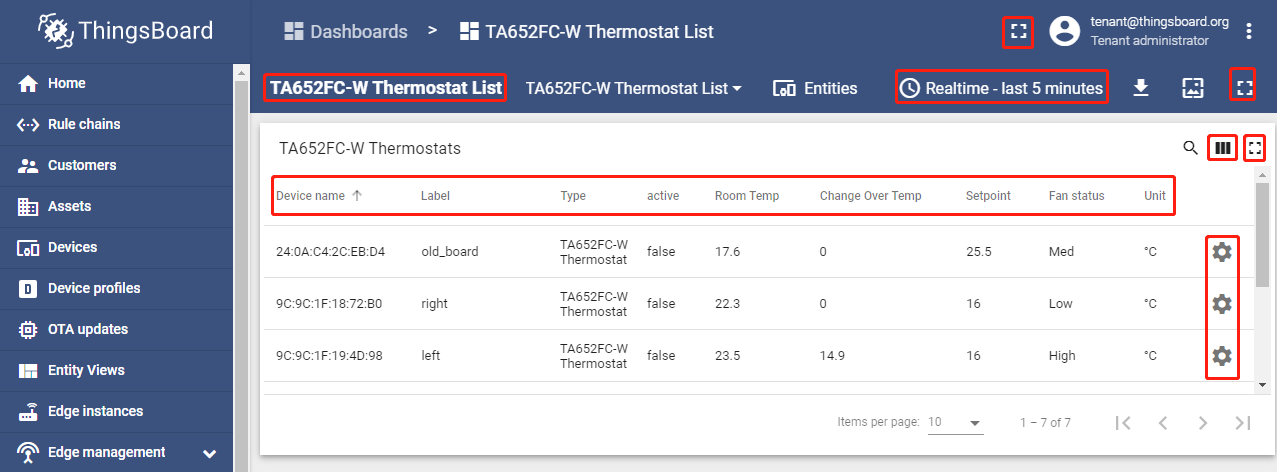
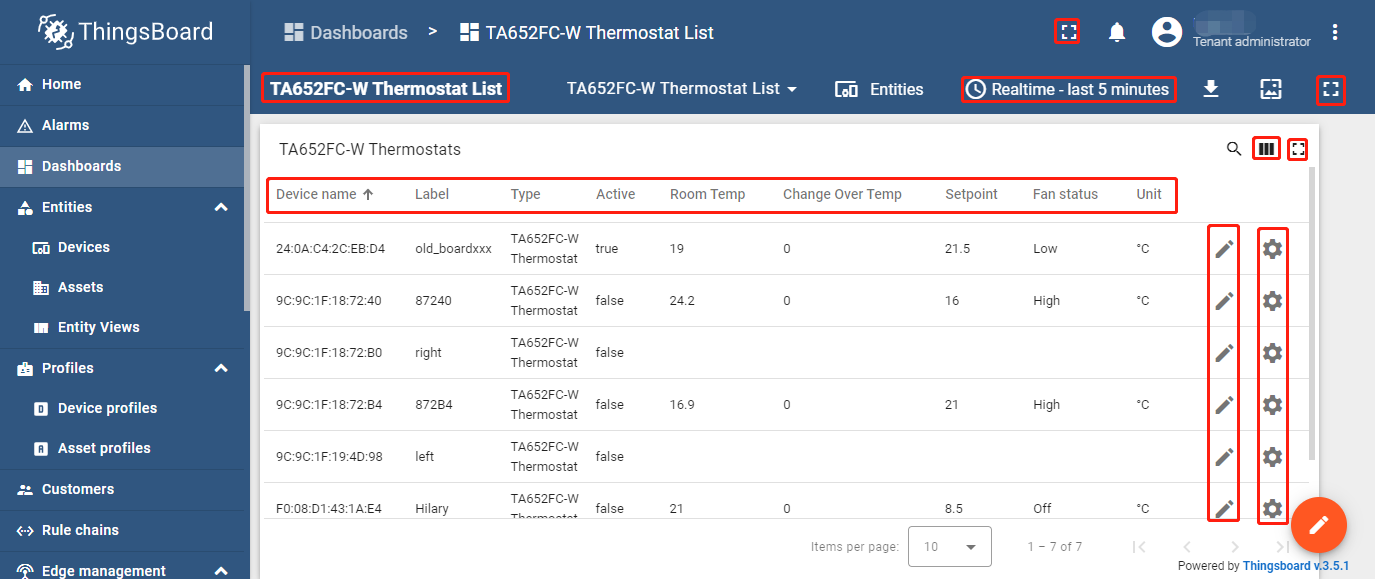
udapte some image of two list dashboard

diff --git a/docs/avantec/avantec-dashboards.rst b/docs/avantec/avantec-dashboards.rst
@@ -14,12 +14,14 @@ TA652FH-W
 
 * :ref:`TA652FH-W Thermostat List` - device list.
 * :ref:`TA652FH-W Thermostat (For Mobile App)` - device detail.
-* :ref:`Office center - TA652FH-W Thermostats` - multiple TA652FH-W Thermostats in a office center.
+* :ref:`Office center - TA652FH-W Thermostats` - multiple TA652FH-W Thermostats in an office center.
 
 Other Dashboards
 ===================
 
-* Firmware - firmware update. *Some versions of ThingsBoard already have this Dashboard, which can be used without importing*. :download:`firmware.json </configuration-item/dashboards/firmware.json>`
+* Firmware - firmware update. 
+
+    *Some versions of ThingsBoard already have this Dashboard, which can be used without importing*. :download:`firmware.json </configuration-item/dashboards/firmware.json>`
 
 * *Manage device claiming* - ...
 
@@ -29,10 +31,3 @@ Other Dashboards
 
     *TODO:...*
 
-See also
-===============
-
-Learn how to import dashboard:
-
-* :ref:`Import TA652FC-W Detail Dashboard <Import TA652FC-W Detail Dashboard>`
-* :ref:`Import TA652FC-W List Dashboard <Import TA652FC-W List Dashboard>`

diff --git a/docs/device/ta652fh-w/ta652fh-w-demo-dashboards-usage.rst b/docs/device/ta652fh-w/ta652fh-w-demo-dashboards-usage.rst
@@ -77,10 +77,11 @@ Default state
         * Device name, Label, Type, active.
         * Room temperature, Floor Temperature, Setpoint, Unit: Refer to `Monitor state`_.
     * Actions:
-        * |detail_dashboard| : skip to `TA652FH-W Thermostat (For Mobile App)`_。
+        * |detail_dashboard| : skip to `TA652FH-W Thermostat (For Mobile App)`_.
+        * |edit_device| : Popup dialog to editing a device's label.
 
 .. |detail_dashboard| image:: /_static/device/ta652fh-w/ta652fh-w-demo-dashboards-usage/ta652fh-w-demo-dashboards-usage-list-5.png
-
+.. |edit_device| image:: /_static/device/ta652fh-w/ta652fh-w-demo-dashboards-usage/ta652fh-w-demo-dashboards-usage-list-6.png
 
 
 .. _Import TA652FH-W List Dashboard:

diff --git a/docs/device/ta652fc-w/ta652fc-w-demo-dashboards-usage.rst b/docs/device/ta652fc-w/ta652fc-w-demo-dashboards-usage.rst
@@ -63,9 +63,11 @@ Default state
         * Device name, Label, Type, active.
         * Room temperature, Change Over Sensor Temperature, Setpoint, Fan status, Unit: Refer to `Monitor state`_.
     * Actions:
-        * |detail_dashboard| : skip to `TA652FC-W Thermostat (For Mobile App)`_。
+        * |detail_dashboard| : skip to `TA652FC-W Thermostat (For Mobile App)`_.
+        * |edit_device| : Popup dialog to editing a device's label.
 
 .. |detail_dashboard| image:: /_static/device/ta652fc-w/ta652fc-w-demo-dashboards-usage/ta652fc-w-demo-dashboards-usage-list-5.png
+.. |edit_device| image:: /_static/device/ta652fc-w/ta652fc-w-demo-dashboards-usage/ta652fc-w-demo-dashboards-usage-list-6.png
 
 
 

diff --git a/docs/copyright.rst b/docs/copyright.rst
@@ -6,7 +6,7 @@ Copyrights and Licenses
 Copyrights
 ===========
 
-All original source code & document in this repository is Copyright (C) 2022 Avantec Manufacturing Limited. This source code is licensed under the Apache License 2.0 as described in the file `LICENSE`__.
+All original source code & document in this repository is Copyright (C) 2023 Avantec Manufacturing Limited. This source code is licensed under the Apache License 2.0 as described in the file `LICENSE`__.
 
 Additional third party copyrighted code & document is included under the following licenses.
 
